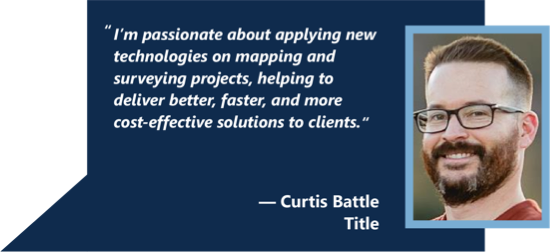
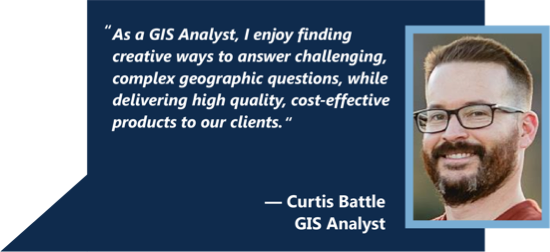
update Curtis

Changed region(s): [[0.1855, 0.1111, 0.7109, 0.5278], [0.4636, 0.75, 0.7109, 0.8333], [0.5255, 0.8611, 0.7109, 0.9444]]

diff --git a/index.hyperesources/index_hype_generated_script.js b/index.hyperesources/index_hype_generated_script.js
@@ -4,4 +4,4 @@
 !1)try{for(var c=document.getElementsByTagName("script"),a=0;a<c.length;a++){var d=c[a].src,b=null!=d?d.indexOf("/index_hype_generated_script.js"):-1;if(-1!=b){l=d.substr(0,b);break}}}catch(p){}c=navigator.userAgent.match(/MSIE (\d+\.\d+)/);c=parseFloat(c&&c[1])||null;d=!0==(null!=window.HYPE_736F||null!=window.HYPE_dtl_736F)||false==!0||null!=c&&10>c;a=!0==d?"HYPE-736.full.min.js":"HYPE-736.thin.min.js";c=!0==d?"F":"T";d=d?"":
 "";if(false==!1&&(a=k("HYPE_736"+c,"HYPE_dtl_736"+c,a,d),false==!0&&(a=a||k("HYPE_w_736","HYPE_wdtl_736","HYPE-736.waypoints.min.js","")),false==!0&&(a=a||k("Matter","HYPE_pdtl_736","HYPE-736.physics.min.js","")),a))return;d=window.HYPE.documents;if(null!=d[f]){b=1;a=f;do f=""+a+"-"+b++;while(null!=d[f]);for(var e=document.getElementsByTagName("div"),
 b=!1,a=0;a<e.length;a++)if(e[a].id==g&&null==e[a].getAttribute("HYP_dn")){var b=1,h=g;do g=""+h+"-"+b++;while(null!=document.getElementById(g));e[a].id=g;b=!0;break}if(!1==b)return}b=[];b=[];e={};h={};for(a=0;a<b.length;a++)try{h[b[a].identifier]=b[a].name,e[b[a].name]=eval("(function(){return "+b[a].source+"})();")}catch(n){window.console&&window.console.log(n),e[b[a].name]=function(){}}c=new window["HYPE_736"+c](f,g,{"-2":{n:"blank.gif"},"18":{p:1,n:"Curtis_quote.png",g:"315",o:true,t:"@1x"},"10":{p:1,n:"legend.png",g:"281",o:true,t:"@1x"},"19":{p:1,n:"Curtis_quote_2x.png",g:"315",o:true,t:"@2x"},"11":{p:1,n:"legend_2x.png",g:"281",o:true,t:"@2x"},"0":{p:1,n:"state_lines.png",g:"37",t:"@1x"},"12":{p:1,n:"adrienne_quote.png",g:"252",t:"@1x"},"1":{p:1,n:"lines.png",g:"23",t:"@1x"},"2":{p:1,n:"peeps.png",g:"25",t:"@1x"},"13":{p:1,n:"Vipul_quote.png",g:"283",t:"@1x"},"3":{p:1,n:"laurie_M_quote.png",g:"126",t:"@1x"},"14":{p:1,n:"Keith_quote.png",g:"285",t:"@1x"},"4":{p:1,n:"lisa_quote.png",g:"196",t:"@1x"},"5":{p:1,n:"Dustin_quote.png",g:"214",t:"@1x"},"15":{p:1,n:"erlin_quote.png",g:"234",t:"@1x"},"6":{p:1,n:"map.png",g:"19",t:"@1x"},"16":{p:1,n:"allison_quote.png",g:"254",o:true,t:"@1x"},"7":{p:1,n:"blue_dot.png",g:"59",o:true,t:"@1x"},"-1":{n:"PIE.htc"},"8":{p:1,n:"blue_dot_2x.png",g:"59",o:true,t:"@2x"},"17":{p:1,n:"allison_quote_2x.png",g:"254",o:true,t:"@2x"},"9":{p:1,n:"Rose_quote.png",g:"86",t:"@1x"}},l,[],e,[{n:"opening",o:"1",X:[0]},{n:"Curtis",o:"297",X:[1]},{n:"adrienne",o:"236",X:[2]},{n:"Erlin",o:"218",X:[3]},{n:"Rose",o:"258",X:[4]},{n:"Allison",o:"88",X:[5]},{n:"Laurie",o:"110",X:[6]},{n:"vipul",o:"144",X:[7]},{n:"Keith",o:"162",X:[8]},{n:"Lisa",o:"180",X:[9]},{n:"dustin",o:"198",X:[10]}],
-[{o:"3",p:"600px",cA:false,Y:1240,Z:800,L:[],c:"#FFF",bY:1,d:1240,U:{},T:{kTimelineDefaultIdentifier:{q:false,z:2,i:"kTimelineDefaultIdentifier",n:"Main Timeline",a:[{f:"c",y:0,z:1,i:"e",e:0,s:1,o:"322"},{f:"c",y:0,z:1,i:"e",e:0,s:1,o:"331"},{f:"c",y:0,z:1,i:"e",e:0,s:1,o:"328"},{f:"c",y:0,z:1,i:"e",e:0,s:1,o:"317"},{f:"c",y:0,z:1,i:"e",e:0,s:1,o:"320"},{f:"c",y:0,z:1,i:"e",e:0,s:1,o:"324"},{f:"c",y:0,z:1,i:"e",e:0,s:1,o:"326"},{f:"c",y:0,z:1,i:"e",e:0,s:1,o:"330"},{f:"c",y:0,z:1,i:"e",e:0,s:1,o:"318"},{f:"c",y:0,z:1,i:"e",e:0,s:1,o:"321"},{f:"c",y:1,z:1,i:"e",e:1,s:0,o:"331"},{f:"c",y:1,z:1,i:"e",e:1,s:0,o:"322"},{f:"c",y:1,z:1,i:"e",e:1,s:0,o:"328"},{f:"c",y:1,z:1,i:"e",e:1,s:0,o:"317"},{f:"c",y:1,z:1,i:"e",e:1,s:0,o:"320"},{f:"c",y:1,z:1,i:"e",e:1,s:0,o:"324"},{f:"c",y:1,z:1,i:"e",e:1,s:0,o:"326"},{f:"c",y:1,z:1,i:"e",e:1,s:0,o:"330"},{f:"c",y:1,z:1,i:"e",e:1,s:0,o:"318"},{f:"c",y:1,z:1,i:"e",e:1,s:0,o:"321"},{f:"c",p:2,y:2,z:0,i:"ActionHandler",s:{a:[{b:"kTimelineDefaultIdentifier",p:3,z:false,symbolOid:"2"}]},o:"kTimelineDefaultIdentifier"},{y:2,i:"e",s:1,z:0,o:"331",f:"c"},{y:2,i:"e",s:1,z:0,o:"322",f:"c"},{y:2,i:"e",s:1,z:0,o:"328",f:"c"},{y:2,i:"e",s:1,z:0,o:"317",f:"c"},{y:2,i:"e",s:1,z:0,o:"320",f:"c"},{y:2,i:"e",s:1,z:0,o:"324",f:"c"},{y:2,i:"e",s:1,z:0,o:"326",f:"c"},{y:2,i:"e",s:1,z:0,o:"330",f:"c"},{y:2,i:"e",s:1,z:0,o:"318",f:"c"},{y:2,i:"e",s:1,z:0,o:"321",f:"c"}],f:30,b:[]}},bZ:180,O:["319","325","329","327","318","330","331","320","324","322","321","328","317","323","326"],n:"Untitled Layout","_":0,v:{"329":{h:"19",p:"no-repeat",x:"visible",a:0,dB:"img",q:"100% 100%",j:"absolute",r:"inline",z:1,k:"div",b:0,d:800,c:1240},"318":{aD:{a:[{d:0.25,p:1,g:2,e:"218"}]},p:"no-repeat",x:"visible",h:"59",q:"100% 100%",a:1019,j:"absolute",r:"inline",z:16,b:230,dB:"img",d:39,k:"div",c:39,e:1,aP:"pointer"},"324":{aD:{a:[{d:0.25,p:1,g:2,e:"162"}]},p:"no-repeat",x:"visible",h:"59",q:"100% 100%",a:487,j:"absolute",r:"inline",z:13,b:318,dB:"img",d:39,k:"div",c:39,e:1,aP:"pointer"},"330":{aD:{a:[{d:0.5,p:1,g:2,e:"180"}]},p:"no-repeat",x:"visible",h:"59",q:"100% 100%",a:793,j:"absolute",r:"inline",z:15,b:279,dB:"img",d:39,k:"div",c:39,e:1,aP:"pointer"},"327":{h:"23",p:"no-repeat",x:"visible",a:20,dB:"img",q:"100% 100%",j:"absolute",r:"inline",z:6,b:20,k:"div",d:800,c:1240,e:1},"322":{aD:{a:[{d:0.25,p:1,g:2,e:"297"}]},p:"no-repeat",x:"visible",h:"59",q:"100% 100%",a:312,j:"absolute",r:"inline",b:361,z:7,dB:"img",d:39,k:"div",c:39,e:1,aP:"pointer",bD:"none"},"319":{h:"25",p:"no-repeat",x:"visible",a:4,dB:"img",q:"100% 100%",j:"absolute",r:"inline",z:5,k:"div",b:0,d:800,c:1240},"320":{aD:{a:[{d:0.25,p:1,g:2,e:"88"}]},p:"no-repeat",x:"visible",h:"59",q:"100% 100%",a:228,j:"absolute",r:"inline",z:12,b:305,dB:"img",d:39,k:"div",c:39,e:1,aP:"pointer"},"325":{h:"37",p:"no-repeat",x:"visible",a:0,dB:"img",q:"100% 100%",j:"absolute",r:"inline",z:2,k:"div",b:0,d:800,c:1240},"331":{aD:{a:[{d:0.25,p:1,g:2,e:"258"}]},p:"no-repeat",x:"visible",h:"59",q:"100% 100%",a:124,j:"absolute",r:"inline",b:310,z:8,dB:"img",d:39,k:"div",c:39,e:1,aP:"pointer",bD:"none"},"328":{aD:{a:[{d:0.25,p:1,g:2,e:"110"}]},p:"no-repeat",x:"visible",h:"59",q:"100% 100%",a:85,j:"absolute",r:"inline",z:10,b:472,dB:"img",d:39,k:"div",c:39,e:1,aP:"pointer"},"317":{aD:{a:[{d:0.25,p:1,g:2,e:"144"}]},p:"no-repeat",x:"visible",h:"59",q:"100% 100%",a:149,j:"absolute",r:"inline",z:11,b:541,dB:"img",d:39,k:"div",c:39,e:1,aP:"pointer"},"323":{h:"281",p:"no-repeat",x:"visible",a:832,dB:"img",q:"100% 100%",j:"absolute",r:"inline",z:18,k:"div",b:539,d:22.32,c:201.6},"326":{aD:{a:[{d:0.5,p:1,g:2,e:"198"}]},p:"no-repeat",x:"visible",h:"59",q:"100% 100%",a:387,j:"absolute",r:"inline",z:14,b:606,dB:"img",d:39,k:"div",c:39,e:1,aP:"pointer"},"321":{aD:{a:[{d:0.5,p:1,g:2,e:"236"}]},p:"no-repeat",x:"visible",h:"59",q:"100% 100%",a:1135,j:"absolute",r:"inline",z:17,b:464,dB:"img",d:39,k:"div",c:39,e:1,aP:"pointer"}}},{o:"314",p:"600px",cA:false,Y:1240,Z:800,L:[],c:"#FFF",bY:1,d:1240,U:{},T:{kTimelineDefaultIdentifier:{q:false,z:2,i:"kTimelineDefaultIdentifier",n:"Main Timeline",a:[{f:"c",y:0,z:1,i:"e",e:0,s:1,o:"335"},{f:"c",y:1,z:1,i:"e",e:1,s:0,o:"335"},{f:"c",p:2,y:2,z:0,i:"ActionHandler",s:{a:[{b:"kTimelineDefaultIdentifier",p:3,z:false,symbolOid:"2"}]},o:"kTimelineDefaultIdentifier"},{y:2,i:"e",s:1,z:0,o:"335",f:"c"}],f:30,b:[]}},bZ:180,O:["333","332","334","336","337","335"],n:"Untitled Layout","_":1,v:{"337":{h:"315",p:"no-repeat",x:"visible",a:356,dB:"img",q:"100% 100%",j:"absolute",r:"inline",z:8,k:"div",b:129,d:252.48,c:550.32},"334":{h:"19",p:"no-repeat",x:"visible",a:0,dB:"img",q:"100% 100%",j:"absolute",r:"inline",z:1,k:"div",b:0,d:800,c:1240},"335":{h:"59",p:"no-repeat",x:"visible",a:312,q:"100% 100%",b:361,j:"absolute",r:"inline",z:7,dB:"img",k:"div",d:39,c:39,e:1,aP:"pointer",aC:{a:[{d:0.25,p:1,g:2,e:"1"}]},bD:"none"},"332":{h:"37",p:"no-repeat",x:"visible",a:0,dB:"img",q:"100% 100%",j:"absolute",r:"inline",z:2,k:"div",b:0,d:800,c:1240},"336":{h:"23",p:"no-repeat",x:"visible",a:20,dB:"img",q:"100% 100%",j:"absolute",r:"inline",z:6,b:20,k:"div",d:800,c:1240,e:1},"333":{h:"25",p:"no-repeat",x:"visible",a:4,dB:"img",q:"100% 100%",j:"absolute",r:"inline",z:5,k:"div",b:0,d:800,c:1240}}},{o:"251",p:"600px",cA:false,Y:1240,Z:800,L:[],c:"#FFF",bY:1,d:1240,U:{},T:{kTimelineDefaultIdentifier:{q:false,z:0,i:"kTimelineDefaultIdentifier",n:"Main Timeline",a:[],f:30,b:[]}},bZ:180,O:["340","342","343","339","341","338"],n:"Untitled Layout","_":2,v:{"342":{h:"37",p:"no-repeat",x:"visible",a:0,dB:"img",q:"100% 100%",j:"absolute",r:"inline",z:2,k:"div",b:0,d:800,c:1240},"338":{h:"59",p:"no-repeat",x:"visible",a:1135,q:"100% 100%",b:464,j:"absolute",r:"inline",z:15,dB:"img",k:"div",d:39,c:39,e:1,aP:"pointer",aC:{a:[{d:0.25,p:1,g:2,e:"1"}]}},"340":{h:"25",p:"no-repeat",x:"visible",a:4,dB:"img",q:"100% 100%",j:"absolute",r:"inline",z:4,k:"div",b:0,d:800,c:1240},"339":{h:"23",p:"no-repeat",x:"visible",a:20,dB:"img",q:"100% 100%",j:"absolute",r:"inline",z:5,b:20,k:"div",d:800,c:1240,e:1},"341":{h:"252",p:"no-repeat",x:"visible",a:581,dB:"img",q:"100% 100%",j:"absolute",r:"inline",z:6,k:"div",b:442,d:348,c:603},"343":{h:"19",p:"no-repeat",x:"visible",a:0,dB:"img",q:"100% 100%",j:"absolute",r:"inline",z:1,k:"div",b:0,d:800,c:1240}}},{o:"233",p:"600px",cA:false,Y:1240,Z:800,L:[],c:"#FFF",bY:1,d:1240,U:{},T:{kTimelineDefaultIdentifier:{q:false,z:0,i:"kTimelineDefaultIdentifier",n:"Main Timeline",a:[],f:30,b:[]}},bZ:180,O:["345","348","347","344","346","349"],n:"Untitled Layout","_":3,v:{"349":{h:"59",p:"no-repeat",x:"visible",a:1019,q:"100% 100%",b:230,j:"absolute",r:"inline",z:14,dB:"img",k:"div",d:39,c:39,e:1,aP:"pointer",aC:{a:[{d:0.25,p:1,g:2,e:"1"}]}},"346":{h:"234",p:"no-repeat",x:"visible",a:471,dB:"img",q:"100% 100%",j:"absolute",r:"inline",z:6,k:"div",b:203,d:348,c:603},"347":{h:"19",p:"no-repeat",x:"visible",a:0,dB:"img",q:"100% 100%",j:"absolute",r:"inline",z:1,k:"div",b:0,d:800,c:1240},"344":{h:"23",p:"no-repeat",x:"visible",a:20,dB:"img",q:"100% 100%",j:"absolute",r:"inline",z:5,b:20,k:"div",d:800,c:1240,e:1},"348":{h:"37",p:"no-repeat",x:"visible",a:0,dB:"img",q:"100% 100%",j:"absolute",r:"inline",z:2,k:"div",b:0,d:800,c:1240},"345":{h:"25",p:"no-repeat",x:"visible",a:4,dB:"img",q:"100% 100%",j:"absolute",r:"inline",z:4,k:"div",b:0,d:800,c:1240}}},{o:"266",p:"600px",cA:false,Y:1240,Z:800,L:[],c:"#FFF",bY:1,d:1240,U:{},T:{kTimelineDefaultIdentifier:{q:false,z:0,i:"kTimelineDefaultIdentifier",n:"Main Timeline",a:[],f:30,b:[]}},bZ:180,O:["355","354","353","352","351","350"],n:"Untitled Layout","_":4,v:{"354":{h:"37",p:"no-repeat",x:"visible",a:0,dB:"img",q:"100% 100%",j:"absolute",r:"inline",z:2,k:"div",b:0,d:800,c:1240},"351":{h:"86",p:"no-repeat",x:"visible",a:124,dB:"img",q:"100% 100%",j:"absolute",r:"inline",z:6,k:"div",b:285,d:348,c:603},"355":{h:"25",p:"no-repeat",x:"visible",a:4,dB:"img",q:"100% 100%",j:"absolute",r:"inline",z:4,k:"div",b:0,d:800,c:1240},"352":{h:"23",p:"no-repeat",x:"visible",a:20,dB:"img",q:"100% 100%",j:"absolute",r:"inline",z:5,b:20,k:"div",d:800,c:1240,e:1},"353":{h:"19",p:"no-repeat",x:"visible",a:0,dB:"img",q:"100% 100%",j:"absolute",r:"inline",z:1,k:"div",b:0,d:800,c:1240},"350":{h:"59",p:"no-repeat",x:"visible",a:124,q:"100% 100%",b:310,j:"absolute",r:"inline",z:7,dB:"img",k:"div",d:39,c:39,e:1,aP:"pointer",aC:{a:[{d:0.25,p:1,g:2,e:"1"}]}}}},{o:"103",p:"600px",cA:false,Y:1240,Z:800,L:[],c:"#FFF",bY:1,d:1240,U:{},T:{kTimelineDefaultIdentifier:{q:false,z:0,i:"kTimelineDefaultIdentifier",n:"Main Timeline",a:[],f:30,b:[]}},bZ:180,O:["358","359","360","356","361","357"],n:"Untitled Layout","_":5,v:{"358":{h:"25",p:"no-repeat",x:"visible",a:4,dB:"img",q:"100% 100%",j:"absolute",r:"inline",z:4,k:"div",b:0,d:800,c:1240},"360":{h:"19",p:"no-repeat",x:"visible",a:0,dB:"img",q:"100% 100%",j:"absolute",r:"inline",z:1,k:"div",b:0,d:800,c:1240},"359":{h:"37",p:"no-repeat",x:"visible",a:0,dB:"img",q:"100% 100%",j:"absolute",r:"inline",z:2,k:"div",b:0,d:800,c:1240},"356":{h:"23",p:"no-repeat",x:"visible",a:20,dB:"img",q:"100% 100%",j:"absolute",r:"inline",z:5,b:20,k:"div",d:800,c:1240,e:1},"361":{h:"59",p:"no-repeat",x:"visible",a:228,q:"100% 100%",b:305,j:"absolute",r:"inline",z:11,dB:"img",k:"div",d:39,c:39,e:1,aP:"pointer",aC:{a:[{d:0.25,p:1,g:2,e:"1"}]}},"357":{h:"254",p:"no-repeat",x:"visible",a:257,dB:"img",q:"100% 100%",j:"absolute",r:"inline",z:10,k:"div",b:325,d:252.48,c:544.56}}},{o:"125",p:"600px",cA:false,Y:1240,Z:800,L:[],c:"#FFF",bY:1,d:1240,U:{},T:{kTimelineDefaultIdentifier:{q:false,z:0,i:"kTimelineDefaultIdentifier",n:"Main Timeline",a:[],f:30,b:[]}},bZ:180,O:["362","365","363","366","364","367"],n:"Untitled Layout","_":6,v:{"366":{h:"23",p:"no-repeat",x:"visible",a:20,dB:"img",q:"100% 100%",j:"absolute",r:"inline",z:5,b:20,k:"div",d:800,c:1240,e:1},"363":{h:"19",p:"no-repeat",x:"visible",a:0,dB:"img",q:"100% 100%",j:"absolute",r:"inline",z:1,k:"div",b:0,d:800,c:1240},"367":{h:"59",p:"no-repeat",x:"visible",a:85,q:"100% 100%",b:472,j:"absolute",r:"inline",z:8,dB:"img",k:"div",d:39,c:39,e:1,aP:"pointer",aC:{a:[{d:0.25,p:1,g:2,e:"1"}]}},"364":{h:"126",p:"no-repeat",x:"visible",a:76,dB:"img",q:"100% 100%",j:"absolute",r:"inline",z:7,k:"div",b:444,d:348,c:603},"365":{h:"37",p:"no-repeat",x:"visible",a:0,dB:"img",q:"100% 100%",j:"absolute",r:"inline",z:2,k:"div",b:0,d:800,c:1240},"362":{h:"25",p:"no-repeat",x:"visible",a:4,dB:"img",q:"100% 100%",j:"absolute",r:"inline",z:4,k:"div",b:0,d:800,c:1240}}},{o:"159",p:"600px",cA:false,Y:1240,Z:800,L:[],c:"#FFF",bY:1,d:1240,U:{},T:{kTimelineDefaultIdentifier:{q:false,z:0,i:"kTimelineDefaultIdentifier",n:"Main Timeline",a:[],f:30,b:[]}},bZ:180,O:["370","372","371","368","369","373"],n:"Untitled Layout","_":7,v:{"371":{h:"19",p:"no-repeat",x:"visible",a:0,dB:"img",q:"100% 100%",j:"absolute",r:"inline",z:1,k:"div",b:0,d:800,c:1240},"373":{h:"59",p:"no-repeat",x:"visible",a:149,q:"100% 100%",b:541,j:"absolute",r:"inline",z:10,dB:"img",k:"div",d:39,c:39,e:1,aP:"pointer",aC:{a:[{d:0.25,p:1,g:2,e:"1"}]}},"372":{h:"37",p:"no-repeat",x:"visible",a:0,dB:"img",q:"100% 100%",j:"absolute",r:"inline",z:2,k:"div",b:0,d:800,c:1240},"368":{h:"23",p:"no-repeat",x:"visible",a:20,dB:"img",q:"100% 100%",j:"absolute",r:"inline",z:5,b:20,k:"div",d:800,c:1240,e:1},"370":{h:"25",p:"no-repeat",x:"visible",a:4,dB:"img",q:"100% 100%",j:"absolute",r:"inline",z:4,k:"div",b:0,d:800,c:1240},"369":{h:"283",p:"no-repeat",x:"visible",a:143,dB:"img",q:"100% 100%",j:"absolute",r:"inline",z:6,k:"div",b:267,d:348,c:603}}},{o:"177",p:"600px",cA:false,Y:1240,Z:800,L:[],c:"#FFF",bY:1,d:1240,U:{},T:{kTimelineDefaultIdentifier:{q:false,z:0,i:"kTimelineDefaultIdentifier",n:"Main Timeline",a:[],f:30,b:[]}},bZ:180,O:["378","374","375","376","379","377"],n:"Untitled Layout","_":8,v:{"378":{h:"25",p:"no-repeat",x:"visible",a:4,dB:"img",q:"100% 100%",j:"absolute",r:"inline",z:4,k:"div",b:0,d:800,c:1240},"375":{h:"19",p:"no-repeat",x:"visible",a:0,dB:"img",q:"100% 100%",j:"absolute",r:"inline",z:1,k:"div",b:0,d:800,c:1240},"379":{h:"285",p:"no-repeat",x:"visible",a:487,dB:"img",q:"100% 100%",j:"absolute",r:"inline",z:6,k:"div",b:294,d:348,c:603},"376":{h:"23",p:"no-repeat",x:"visible",a:20,dB:"img",q:"100% 100%",j:"absolute",r:"inline",z:5,b:20,k:"div",d:800,c:1240,e:1},"377":{h:"59",p:"no-repeat",x:"visible",a:487,q:"100% 100%",b:318,j:"absolute",r:"inline",z:13,dB:"img",k:"div",d:39,c:39,e:1,aP:"pointer",aC:{a:[{d:0.25,p:1,g:2,e:"1"}]}},"374":{h:"37",p:"no-repeat",x:"visible",a:0,dB:"img",q:"100% 100%",j:"absolute",r:"inline",z:2,k:"div",b:0,d:800,c:1240}}},{o:"195",p:"600px",cA:false,Y:1240,Z:800,L:[],c:"#FFF",bY:1,d:1240,U:{},T:{kTimelineDefaultIdentifier:{q:false,z:2,i:"kTimelineDefaultIdentifier",n:"Main Timeline",a:[{f:"c",y:0,z:1,i:"e",e:0,s:1,o:"383"},{f:"c",y:1,z:1,i:"e",e:1,s:0,o:"383"},{f:"c",p:2,y:2,z:0,i:"ActionHandler",s:{a:[{b:"kTimelineDefaultIdentifier",p:3,z:false,symbolOid:"2"}]},o:"kTimelineDefaultIdentifier"},{y:2,i:"e",s:1,z:0,o:"383",f:"c"}],f:30,b:[]}},bZ:180,O:["380","385","381","384","382","383"],n:"Untitled Layout","_":9,v:{"383":{h:"59",p:"no-repeat",x:"visible",a:793,q:"100% 100%",b:279,j:"absolute",r:"inline",z:13,dB:"img",k:"div",d:39,c:39,e:1,aP:"pointer",aC:{a:[{d:0.5,p:1,g:2,e:"1"}]}},"380":{h:"25",p:"no-repeat",x:"visible",a:4,dB:"img",q:"100% 100%",j:"absolute",r:"inline",z:4,k:"div",b:0,d:800,c:1240},"384":{h:"23",p:"no-repeat",x:"visible",a:20,dB:"img",q:"100% 100%",j:"absolute",r:"inline",z:5,b:20,k:"div",d:800,c:1240,e:1},"381":{h:"19",p:"no-repeat",x:"visible",a:0,dB:"img",q:"100% 100%",j:"absolute",r:"inline",z:1,k:"div",b:0,d:800,c:1240},"385":{h:"37",p:"no-repeat",x:"visible",a:0,dB:"img",q:"100% 100%",j:"absolute",r:"inline",z:2,k:"div",b:0,d:800,c:1240},"382":{h:"196",p:"no-repeat",x:"visible",a:245,dB:"img",q:"100% 100%",j:"absolute",r:"inline",z:6,k:"div",b:255,d:348,c:603}}},{o:"213",p:"600px",cA:false,Y:1240,Z:800,L:[],c:"#FFF",bY:1,d:1240,U:{},T:{kTimelineDefaultIdentifier:{q:false,z:0,i:"kTimelineDefaultIdentifier",n:"Main Timeline",a:[],f:30,b:[]}},bZ:180,O:["390","389","387","386","388","391"],n:"Untitled Layout","_":10,v:{"391":{h:"59",p:"no-repeat",x:"visible",a:387,q:"100% 100%",b:606,j:"absolute",r:"inline",z:12,dB:"img",k:"div",d:39,c:39,e:1,aP:"pointer",aC:{a:[{d:0.25,p:1,g:2,e:"1"}]}},"387":{h:"19",p:"no-repeat",x:"visible",a:0,dB:"img",q:"100% 100%",j:"absolute",r:"inline",z:1,k:"div",b:0,d:800,c:1240},"388":{h:"214",p:"no-repeat",x:"visible",a:394,dB:"img",q:"100% 100%",j:"absolute",r:"inline",z:6,k:"div",b:322,d:348,c:603},"390":{h:"25",p:"no-repeat",x:"visible",a:4,dB:"img",q:"100% 100%",j:"absolute",r:"inline",z:4,k:"div",b:0,d:800,c:1240},"389":{h:"37",p:"no-repeat",x:"visible",a:0,dB:"img",q:"100% 100%",j:"absolute",r:"inline",z:2,k:"div",b:0,d:800,c:1240},"386":{h:"23",p:"no-repeat",x:"visible",a:20,dB:"img",q:"100% 100%",j:"absolute",r:"inline",z:5,b:20,k:"div",d:800,c:1240,e:1}}}],{},h,{},null,false,true,-1,true,true,false,true,true);d[f]=c.API;document.getElementById(g).setAttribute("HYP_dn",f);c.z_o(this.body)})();})();
+[{o:"3",p:"600px",cA:false,Y:1240,Z:800,L:[],c:"#FFF",bY:1,d:1240,U:{},T:{kTimelineDefaultIdentifier:{q:false,z:2,i:"kTimelineDefaultIdentifier",n:"Main Timeline",a:[{f:"c",y:0,z:1,i:"e",e:0,s:1,o:"322"},{f:"c",y:0,z:1,i:"e",e:0,s:1,o:"326"},{f:"c",y:0,z:1,i:"e",e:0,s:1,o:"329"},{f:"c",y:0,z:1,i:"e",e:0,s:1,o:"317"},{f:"c",y:0,z:1,i:"e",e:0,s:1,o:"320"},{f:"c",y:0,z:1,i:"e",e:0,s:1,o:"324"},{f:"c",y:0,z:1,i:"e",e:0,s:1,o:"327"},{f:"c",y:0,z:1,i:"e",e:0,s:1,o:"331"},{f:"c",y:0,z:1,i:"e",e:0,s:1,o:"318"},{f:"c",y:0,z:1,i:"e",e:0,s:1,o:"321"},{f:"c",y:1,z:1,i:"e",e:1,s:0,o:"326"},{f:"c",y:1,z:1,i:"e",e:1,s:0,o:"322"},{f:"c",y:1,z:1,i:"e",e:1,s:0,o:"329"},{f:"c",y:1,z:1,i:"e",e:1,s:0,o:"317"},{f:"c",y:1,z:1,i:"e",e:1,s:0,o:"320"},{f:"c",y:1,z:1,i:"e",e:1,s:0,o:"324"},{f:"c",y:1,z:1,i:"e",e:1,s:0,o:"327"},{f:"c",y:1,z:1,i:"e",e:1,s:0,o:"331"},{f:"c",y:1,z:1,i:"e",e:1,s:0,o:"318"},{f:"c",y:1,z:1,i:"e",e:1,s:0,o:"321"},{f:"c",p:2,y:2,z:0,i:"ActionHandler",s:{a:[{b:"kTimelineDefaultIdentifier",p:3,z:false,symbolOid:"2"}]},o:"kTimelineDefaultIdentifier"},{y:2,i:"e",s:1,z:0,o:"326",f:"c"},{y:2,i:"e",s:1,z:0,o:"322",f:"c"},{y:2,i:"e",s:1,z:0,o:"329",f:"c"},{y:2,i:"e",s:1,z:0,o:"317",f:"c"},{y:2,i:"e",s:1,z:0,o:"320",f:"c"},{y:2,i:"e",s:1,z:0,o:"324",f:"c"},{y:2,i:"e",s:1,z:0,o:"327",f:"c"},{y:2,i:"e",s:1,z:0,o:"331",f:"c"},{y:2,i:"e",s:1,z:0,o:"318",f:"c"},{y:2,i:"e",s:1,z:0,o:"321",f:"c"}],f:30,b:[]}},bZ:180,O:["319","325","330","328","318","331","326","320","324","322","321","329","317","323","327"],n:"Untitled Layout","_":0,v:{"329":{aD:{a:[{d:0.25,p:1,g:2,e:"110"}]},p:"no-repeat",x:"visible",h:"59",q:"100% 100%",a:85,j:"absolute",r:"inline",z:10,b:472,dB:"img",d:39,k:"div",c:39,e:1,aP:"pointer"},"318":{aD:{a:[{d:0.25,p:1,g:2,e:"218"}]},p:"no-repeat",x:"visible",h:"59",q:"100% 100%",a:1019,j:"absolute",r:"inline",z:16,b:230,dB:"img",d:39,k:"div",c:39,e:1,aP:"pointer"},"324":{aD:{a:[{d:0.25,p:1,g:2,e:"162"}]},p:"no-repeat",x:"visible",h:"59",q:"100% 100%",a:487,j:"absolute",r:"inline",z:13,b:318,dB:"img",d:39,k:"div",c:39,e:1,aP:"pointer"},"330":{h:"19",p:"no-repeat",x:"visible",a:0,dB:"img",q:"100% 100%",j:"absolute",r:"inline",z:1,k:"div",b:0,d:800,c:1240},"327":{aD:{a:[{d:0.5,p:1,g:2,e:"198"}]},p:"no-repeat",x:"visible",h:"59",q:"100% 100%",a:387,j:"absolute",r:"inline",z:14,b:606,dB:"img",d:39,k:"div",c:39,e:1,aP:"pointer"},"322":{aD:{a:[{d:0.25,p:1,g:2,e:"297"}]},p:"no-repeat",x:"visible",h:"59",q:"100% 100%",a:312,j:"absolute",r:"inline",b:361,z:7,dB:"img",d:39,k:"div",c:39,e:1,aP:"pointer",bD:"none"},"319":{h:"25",p:"no-repeat",x:"visible",a:4,dB:"img",q:"100% 100%",j:"absolute",r:"inline",z:5,k:"div",b:0,d:800,c:1240},"320":{aD:{a:[{d:0.25,p:1,g:2,e:"88"}]},p:"no-repeat",x:"visible",h:"59",q:"100% 100%",a:228,j:"absolute",r:"inline",z:12,b:305,dB:"img",d:39,k:"div",c:39,e:1,aP:"pointer"},"325":{h:"37",p:"no-repeat",x:"visible",a:0,dB:"img",q:"100% 100%",j:"absolute",r:"inline",z:2,k:"div",b:0,d:800,c:1240},"331":{aD:{a:[{d:0.5,p:1,g:2,e:"180"}]},p:"no-repeat",x:"visible",h:"59",q:"100% 100%",a:793,j:"absolute",r:"inline",z:15,b:279,dB:"img",d:39,k:"div",c:39,e:1,aP:"pointer"},"328":{h:"23",p:"no-repeat",x:"visible",a:20,dB:"img",q:"100% 100%",j:"absolute",r:"inline",z:6,b:20,k:"div",d:800,c:1240,e:1},"317":{aD:{a:[{d:0.25,p:1,g:2,e:"144"}]},p:"no-repeat",x:"visible",h:"59",q:"100% 100%",a:149,j:"absolute",r:"inline",z:11,b:541,dB:"img",d:39,k:"div",c:39,e:1,aP:"pointer"},"323":{h:"281",p:"no-repeat",x:"visible",a:832,dB:"img",q:"100% 100%",j:"absolute",r:"inline",z:18,k:"div",b:539,d:22.32,c:201.6},"326":{aD:{a:[{d:0.25,p:1,g:2,e:"258"}]},p:"no-repeat",x:"visible",h:"59",q:"100% 100%",a:124,j:"absolute",r:"inline",b:310,z:8,dB:"img",d:39,k:"div",c:39,e:1,aP:"pointer",bD:"none"},"321":{aD:{a:[{d:0.5,p:1,g:2,e:"236"}]},p:"no-repeat",x:"visible",h:"59",q:"100% 100%",a:1135,j:"absolute",r:"inline",z:17,b:464,dB:"img",d:39,k:"div",c:39,e:1,aP:"pointer"}}},{o:"314",p:"600px",cA:false,Y:1240,Z:800,L:[],c:"#FFF",bY:1,d:1240,U:{},T:{kTimelineDefaultIdentifier:{q:false,z:2,i:"kTimelineDefaultIdentifier",n:"Main Timeline",a:[{f:"c",y:0,z:1,i:"e",e:0,s:1,o:"335"},{f:"c",y:1,z:1,i:"e",e:1,s:0,o:"335"},{f:"c",p:2,y:2,z:0,i:"ActionHandler",s:{a:[{b:"kTimelineDefaultIdentifier",p:3,z:false,symbolOid:"2"}]},o:"kTimelineDefaultIdentifier"},{y:2,i:"e",s:1,z:0,o:"335",f:"c"}],f:30,b:[]}},bZ:180,O:["332","336","334","333","337","335"],n:"Untitled Layout","_":1,v:{"337":{h:"315",p:"no-repeat",x:"visible",a:356,dB:"img",q:"100% 100%",j:"absolute",r:"inline",z:8,k:"div",b:129,d:252.48,c:550.32},"334":{h:"19",p:"no-repeat",x:"visible",a:0,dB:"img",q:"100% 100%",j:"absolute",r:"inline",z:1,k:"div",b:0,d:800,c:1240},"335":{h:"59",p:"no-repeat",x:"visible",a:312,q:"100% 100%",b:361,j:"absolute",r:"inline",z:7,dB:"img",k:"div",d:39,c:39,e:1,aP:"pointer",aC:{a:[{d:0.25,p:1,g:2,e:"1"}]},bD:"none"},"332":{h:"25",p:"no-repeat",x:"visible",a:4,dB:"img",q:"100% 100%",j:"absolute",r:"inline",z:5,k:"div",b:0,d:800,c:1240},"336":{h:"37",p:"no-repeat",x:"visible",a:0,dB:"img",q:"100% 100%",j:"absolute",r:"inline",z:2,k:"div",b:0,d:800,c:1240},"333":{h:"23",p:"no-repeat",x:"visible",a:20,dB:"img",q:"100% 100%",j:"absolute",r:"inline",z:6,b:20,k:"div",d:800,c:1240,e:1}}},{o:"251",p:"600px",cA:false,Y:1240,Z:800,L:[],c:"#FFF",bY:1,d:1240,U:{},T:{kTimelineDefaultIdentifier:{q:false,z:0,i:"kTimelineDefaultIdentifier",n:"Main Timeline",a:[],f:30,b:[]}},bZ:180,O:["340","342","338","339","341","343"],n:"Untitled Layout","_":2,v:{"342":{h:"37",p:"no-repeat",x:"visible",a:0,dB:"img",q:"100% 100%",j:"absolute",r:"inline",z:2,k:"div",b:0,d:800,c:1240},"338":{h:"19",p:"no-repeat",x:"visible",a:0,dB:"img",q:"100% 100%",j:"absolute",r:"inline",z:1,k:"div",b:0,d:800,c:1240},"340":{h:"25",p:"no-repeat",x:"visible",a:4,dB:"img",q:"100% 100%",j:"absolute",r:"inline",z:4,k:"div",b:0,d:800,c:1240},"339":{h:"23",p:"no-repeat",x:"visible",a:20,dB:"img",q:"100% 100%",j:"absolute",r:"inline",z:5,b:20,k:"div",d:800,c:1240,e:1},"341":{h:"252",p:"no-repeat",x:"visible",a:581,dB:"img",q:"100% 100%",j:"absolute",r:"inline",z:6,k:"div",b:442,d:348,c:603},"343":{h:"59",p:"no-repeat",x:"visible",a:1135,q:"100% 100%",b:464,j:"absolute",r:"inline",z:15,dB:"img",k:"div",d:39,c:39,e:1,aP:"pointer",aC:{a:[{d:0.25,p:1,g:2,e:"1"}]}}}},{o:"233",p:"600px",cA:false,Y:1240,Z:800,L:[],c:"#FFF",bY:1,d:1240,U:{},T:{kTimelineDefaultIdentifier:{q:false,z:0,i:"kTimelineDefaultIdentifier",n:"Main Timeline",a:[],f:30,b:[]}},bZ:180,O:["345","348","347","344","346","349"],n:"Untitled Layout","_":3,v:{"349":{h:"59",p:"no-repeat",x:"visible",a:1019,q:"100% 100%",b:230,j:"absolute",r:"inline",z:14,dB:"img",k:"div",d:39,c:39,e:1,aP:"pointer",aC:{a:[{d:0.25,p:1,g:2,e:"1"}]}},"346":{h:"234",p:"no-repeat",x:"visible",a:471,dB:"img",q:"100% 100%",j:"absolute",r:"inline",z:6,k:"div",b:203,d:348,c:603},"347":{h:"19",p:"no-repeat",x:"visible",a:0,dB:"img",q:"100% 100%",j:"absolute",r:"inline",z:1,k:"div",b:0,d:800,c:1240},"344":{h:"23",p:"no-repeat",x:"visible",a:20,dB:"img",q:"100% 100%",j:"absolute",r:"inline",z:5,b:20,k:"div",d:800,c:1240,e:1},"348":{h:"37",p:"no-repeat",x:"visible",a:0,dB:"img",q:"100% 100%",j:"absolute",r:"inline",z:2,k:"div",b:0,d:800,c:1240},"345":{h:"25",p:"no-repeat",x:"visible",a:4,dB:"img",q:"100% 100%",j:"absolute",r:"inline",z:4,k:"div",b:0,d:800,c:1240}}},{o:"266",p:"600px",cA:false,Y:1240,Z:800,L:[],c:"#FFF",bY:1,d:1240,U:{},T:{kTimelineDefaultIdentifier:{q:false,z:0,i:"kTimelineDefaultIdentifier",n:"Main Timeline",a:[],f:30,b:[]}},bZ:180,O:["355","354","353","352","351","350"],n:"Untitled Layout","_":4,v:{"354":{h:"37",p:"no-repeat",x:"visible",a:0,dB:"img",q:"100% 100%",j:"absolute",r:"inline",z:2,k:"div",b:0,d:800,c:1240},"351":{h:"86",p:"no-repeat",x:"visible",a:124,dB:"img",q:"100% 100%",j:"absolute",r:"inline",z:6,k:"div",b:285,d:348,c:603},"355":{h:"25",p:"no-repeat",x:"visible",a:4,dB:"img",q:"100% 100%",j:"absolute",r:"inline",z:4,k:"div",b:0,d:800,c:1240},"352":{h:"23",p:"no-repeat",x:"visible",a:20,dB:"img",q:"100% 100%",j:"absolute",r:"inline",z:5,b:20,k:"div",d:800,c:1240,e:1},"353":{h:"19",p:"no-repeat",x:"visible",a:0,dB:"img",q:"100% 100%",j:"absolute",r:"inline",z:1,k:"div",b:0,d:800,c:1240},"350":{h:"59",p:"no-repeat",x:"visible",a:124,q:"100% 100%",b:310,j:"absolute",r:"inline",z:7,dB:"img",k:"div",d:39,c:39,e:1,aP:"pointer",aC:{a:[{d:0.25,p:1,g:2,e:"1"}]}}}},{o:"103",p:"600px",cA:false,Y:1240,Z:800,L:[],c:"#FFF",bY:1,d:1240,U:{},T:{kTimelineDefaultIdentifier:{q:false,z:0,i:"kTimelineDefaultIdentifier",n:"Main Timeline",a:[],f:30,b:[]}},bZ:180,O:["358","359","360","356","361","357"],n:"Untitled Layout","_":5,v:{"358":{h:"25",p:"no-repeat",x:"visible",a:4,dB:"img",q:"100% 100%",j:"absolute",r:"inline",z:4,k:"div",b:0,d:800,c:1240},"360":{h:"19",p:"no-repeat",x:"visible",a:0,dB:"img",q:"100% 100%",j:"absolute",r:"inline",z:1,k:"div",b:0,d:800,c:1240},"359":{h:"37",p:"no-repeat",x:"visible",a:0,dB:"img",q:"100% 100%",j:"absolute",r:"inline",z:2,k:"div",b:0,d:800,c:1240},"356":{h:"23",p:"no-repeat",x:"visible",a:20,dB:"img",q:"100% 100%",j:"absolute",r:"inline",z:5,b:20,k:"div",d:800,c:1240,e:1},"361":{h:"59",p:"no-repeat",x:"visible",a:228,q:"100% 100%",b:305,j:"absolute",r:"inline",z:11,dB:"img",k:"div",d:39,c:39,e:1,aP:"pointer",aC:{a:[{d:0.25,p:1,g:2,e:"1"}]}},"357":{h:"254",p:"no-repeat",x:"visible",a:257,dB:"img",q:"100% 100%",j:"absolute",r:"inline",z:10,k:"div",b:325,d:252.48,c:544.56}}},{o:"125",p:"600px",cA:false,Y:1240,Z:800,L:[],c:"#FFF",bY:1,d:1240,U:{},T:{kTimelineDefaultIdentifier:{q:false,z:0,i:"kTimelineDefaultIdentifier",n:"Main Timeline",a:[],f:30,b:[]}},bZ:180,O:["362","365","363","366","364","367"],n:"Untitled Layout","_":6,v:{"366":{h:"23",p:"no-repeat",x:"visible",a:20,dB:"img",q:"100% 100%",j:"absolute",r:"inline",z:5,b:20,k:"div",d:800,c:1240,e:1},"363":{h:"19",p:"no-repeat",x:"visible",a:0,dB:"img",q:"100% 100%",j:"absolute",r:"inline",z:1,k:"div",b:0,d:800,c:1240},"367":{h:"59",p:"no-repeat",x:"visible",a:85,q:"100% 100%",b:472,j:"absolute",r:"inline",z:8,dB:"img",k:"div",d:39,c:39,e:1,aP:"pointer",aC:{a:[{d:0.25,p:1,g:2,e:"1"}]}},"364":{h:"126",p:"no-repeat",x:"visible",a:76,dB:"img",q:"100% 100%",j:"absolute",r:"inline",z:7,k:"div",b:444,d:348,c:603},"365":{h:"37",p:"no-repeat",x:"visible",a:0,dB:"img",q:"100% 100%",j:"absolute",r:"inline",z:2,k:"div",b:0,d:800,c:1240},"362":{h:"25",p:"no-repeat",x:"visible",a:4,dB:"img",q:"100% 100%",j:"absolute",r:"inline",z:4,k:"div",b:0,d:800,c:1240}}},{o:"159",p:"600px",cA:false,Y:1240,Z:800,L:[],c:"#FFF",bY:1,d:1240,U:{},T:{kTimelineDefaultIdentifier:{q:false,z:0,i:"kTimelineDefaultIdentifier",n:"Main Timeline",a:[],f:30,b:[]}},bZ:180,O:["370","372","371","368","369","373"],n:"Untitled Layout","_":7,v:{"371":{h:"19",p:"no-repeat",x:"visible",a:0,dB:"img",q:"100% 100%",j:"absolute",r:"inline",z:1,k:"div",b:0,d:800,c:1240},"373":{h:"59",p:"no-repeat",x:"visible",a:149,q:"100% 100%",b:541,j:"absolute",r:"inline",z:10,dB:"img",k:"div",d:39,c:39,e:1,aP:"pointer",aC:{a:[{d:0.25,p:1,g:2,e:"1"}]}},"372":{h:"37",p:"no-repeat",x:"visible",a:0,dB:"img",q:"100% 100%",j:"absolute",r:"inline",z:2,k:"div",b:0,d:800,c:1240},"368":{h:"23",p:"no-repeat",x:"visible",a:20,dB:"img",q:"100% 100%",j:"absolute",r:"inline",z:5,b:20,k:"div",d:800,c:1240,e:1},"370":{h:"25",p:"no-repeat",x:"visible",a:4,dB:"img",q:"100% 100%",j:"absolute",r:"inline",z:4,k:"div",b:0,d:800,c:1240},"369":{h:"283",p:"no-repeat",x:"visible",a:143,dB:"img",q:"100% 100%",j:"absolute",r:"inline",z:6,k:"div",b:267,d:348,c:603}}},{o:"177",p:"600px",cA:false,Y:1240,Z:800,L:[],c:"#FFF",bY:1,d:1240,U:{},T:{kTimelineDefaultIdentifier:{q:false,z:0,i:"kTimelineDefaultIdentifier",n:"Main Timeline",a:[],f:30,b:[]}},bZ:180,O:["374","378","379","376","375","377"],n:"Untitled Layout","_":8,v:{"378":{h:"37",p:"no-repeat",x:"visible",a:0,dB:"img",q:"100% 100%",j:"absolute",r:"inline",z:2,k:"div",b:0,d:800,c:1240},"375":{h:"285",p:"no-repeat",x:"visible",a:487,dB:"img",q:"100% 100%",j:"absolute",r:"inline",z:6,k:"div",b:294,d:348,c:603},"379":{h:"19",p:"no-repeat",x:"visible",a:0,dB:"img",q:"100% 100%",j:"absolute",r:"inline",z:1,k:"div",b:0,d:800,c:1240},"376":{h:"23",p:"no-repeat",x:"visible",a:20,dB:"img",q:"100% 100%",j:"absolute",r:"inline",z:5,b:20,k:"div",d:800,c:1240,e:1},"377":{h:"59",p:"no-repeat",x:"visible",a:487,q:"100% 100%",b:318,j:"absolute",r:"inline",z:13,dB:"img",k:"div",d:39,c:39,e:1,aP:"pointer",aC:{a:[{d:0.25,p:1,g:2,e:"1"}]}},"374":{h:"25",p:"no-repeat",x:"visible",a:4,dB:"img",q:"100% 100%",j:"absolute",r:"inline",z:4,k:"div",b:0,d:800,c:1240}}},{o:"195",p:"600px",cA:false,Y:1240,Z:800,L:[],c:"#FFF",bY:1,d:1240,U:{},T:{kTimelineDefaultIdentifier:{q:false,z:2,i:"kTimelineDefaultIdentifier",n:"Main Timeline",a:[{f:"c",y:0,z:1,i:"e",e:0,s:1,o:"383"},{f:"c",y:1,z:1,i:"e",e:1,s:0,o:"383"},{f:"c",p:2,y:2,z:0,i:"ActionHandler",s:{a:[{b:"kTimelineDefaultIdentifier",p:3,z:false,symbolOid:"2"}]},o:"kTimelineDefaultIdentifier"},{y:2,i:"e",s:1,z:0,o:"383",f:"c"}],f:30,b:[]}},bZ:180,O:["380","385","381","384","382","383"],n:"Untitled Layout","_":9,v:{"383":{h:"59",p:"no-repeat",x:"visible",a:793,q:"100% 100%",b:279,j:"absolute",r:"inline",z:13,dB:"img",k:"div",d:39,c:39,e:1,aP:"pointer",aC:{a:[{d:0.5,p:1,g:2,e:"1"}]}},"380":{h:"25",p:"no-repeat",x:"visible",a:4,dB:"img",q:"100% 100%",j:"absolute",r:"inline",z:4,k:"div",b:0,d:800,c:1240},"384":{h:"23",p:"no-repeat",x:"visible",a:20,dB:"img",q:"100% 100%",j:"absolute",r:"inline",z:5,b:20,k:"div",d:800,c:1240,e:1},"381":{h:"19",p:"no-repeat",x:"visible",a:0,dB:"img",q:"100% 100%",j:"absolute",r:"inline",z:1,k:"div",b:0,d:800,c:1240},"385":{h:"37",p:"no-repeat",x:"visible",a:0,dB:"img",q:"100% 100%",j:"absolute",r:"inline",z:2,k:"div",b:0,d:800,c:1240},"382":{h:"196",p:"no-repeat",x:"visible",a:245,dB:"img",q:"100% 100%",j:"absolute",r:"inline",z:6,k:"div",b:255,d:348,c:603}}},{o:"213",p:"600px",cA:false,Y:1240,Z:800,L:[],c:"#FFF",bY:1,d:1240,U:{},T:{kTimelineDefaultIdentifier:{q:false,z:0,i:"kTimelineDefaultIdentifier",n:"Main Timeline",a:[],f:30,b:[]}},bZ:180,O:["390","389","387","386","388","391"],n:"Untitled Layout","_":10,v:{"391":{h:"59",p:"no-repeat",x:"visible",a:387,q:"100% 100%",b:606,j:"absolute",r:"inline",z:12,dB:"img",k:"div",d:39,c:39,e:1,aP:"pointer",aC:{a:[{d:0.25,p:1,g:2,e:"1"}]}},"387":{h:"19",p:"no-repeat",x:"visible",a:0,dB:"img",q:"100% 100%",j:"absolute",r:"inline",z:1,k:"div",b:0,d:800,c:1240},"388":{h:"214",p:"no-repeat",x:"visible",a:394,dB:"img",q:"100% 100%",j:"absolute",r:"inline",z:6,k:"div",b:322,d:348,c:603},"390":{h:"25",p:"no-repeat",x:"visible",a:4,dB:"img",q:"100% 100%",j:"absolute",r:"inline",z:4,k:"div",b:0,d:800,c:1240},"389":{h:"37",p:"no-repeat",x:"visible",a:0,dB:"img",q:"100% 100%",j:"absolute",r:"inline",z:2,k:"div",b:0,d:800,c:1240},"386":{h:"23",p:"no-repeat",x:"visible",a:20,dB:"img",q:"100% 100%",j:"absolute",r:"inline",z:5,b:20,k:"div",d:800,c:1240,e:1}}}],{},h,{},null,false,true,-1,true,true,false,true,true);d[f]=c.API;document.getElementById(g).setAttribute("HYP_dn",f);c.z_o(this.body)})();})();

diff --git a/index.html b/index.html
@@ -24,7 +24,7 @@
 	<!-- copy these lines to your document: -->
 
 	<div id="index_hype_container" class="HYPE_document" style="margin:auto;position:relative;width:1240px;height:800px;overflow:hidden;">
-		<script type="text/javascript" charset="utf-8" src="index.hyperesources/index_hype_generated_script.js?15880"></script>
+		<script type="text/javascript" charset="utf-8" src="index.hyperesources/index_hype_generated_script.js?20387"></script>
 	</div>
 
 	<!-- end copy -->
